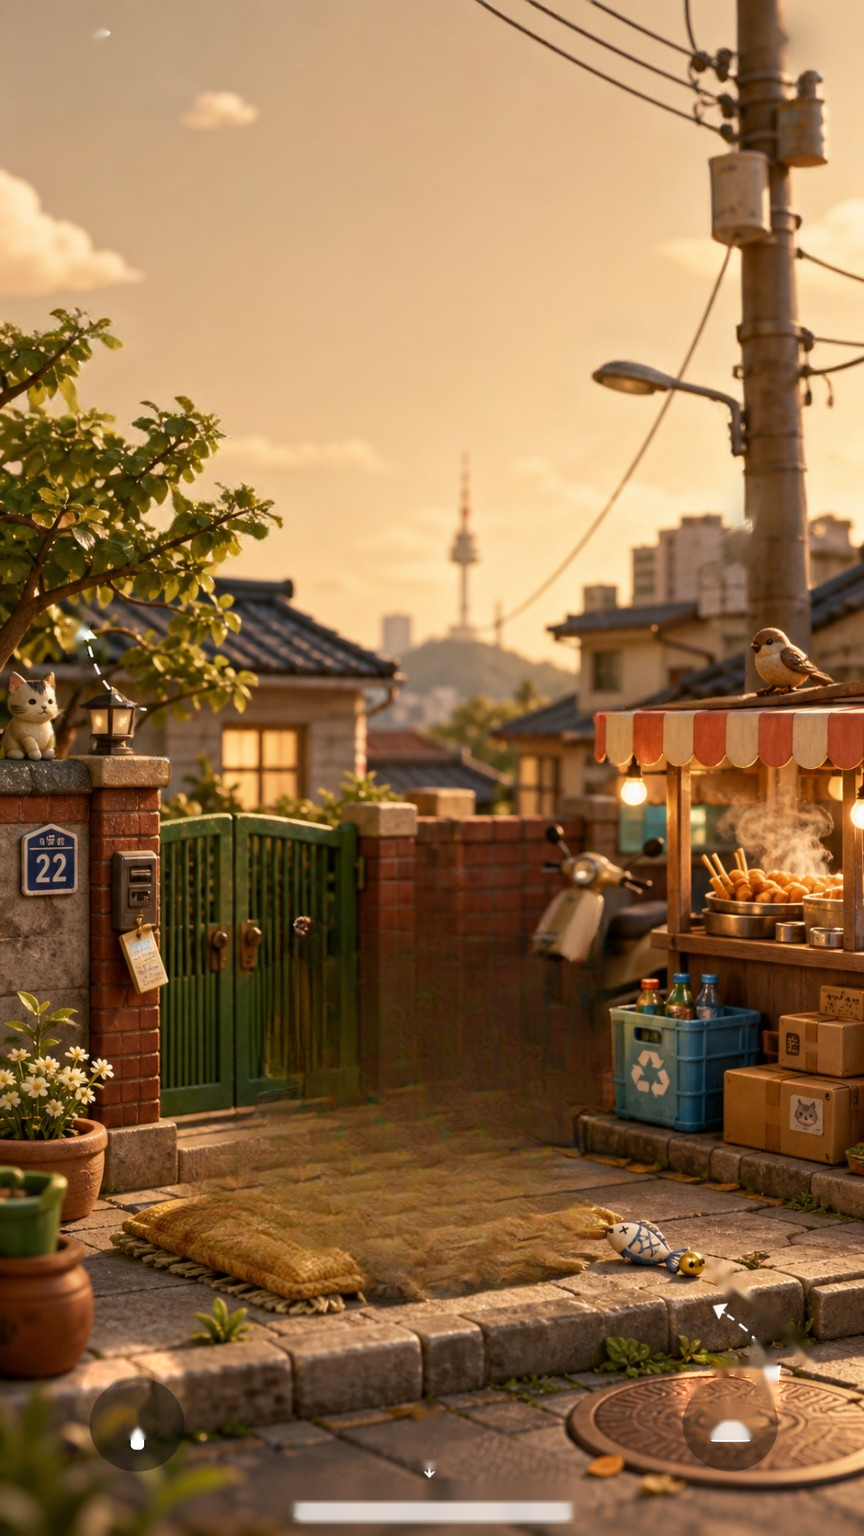
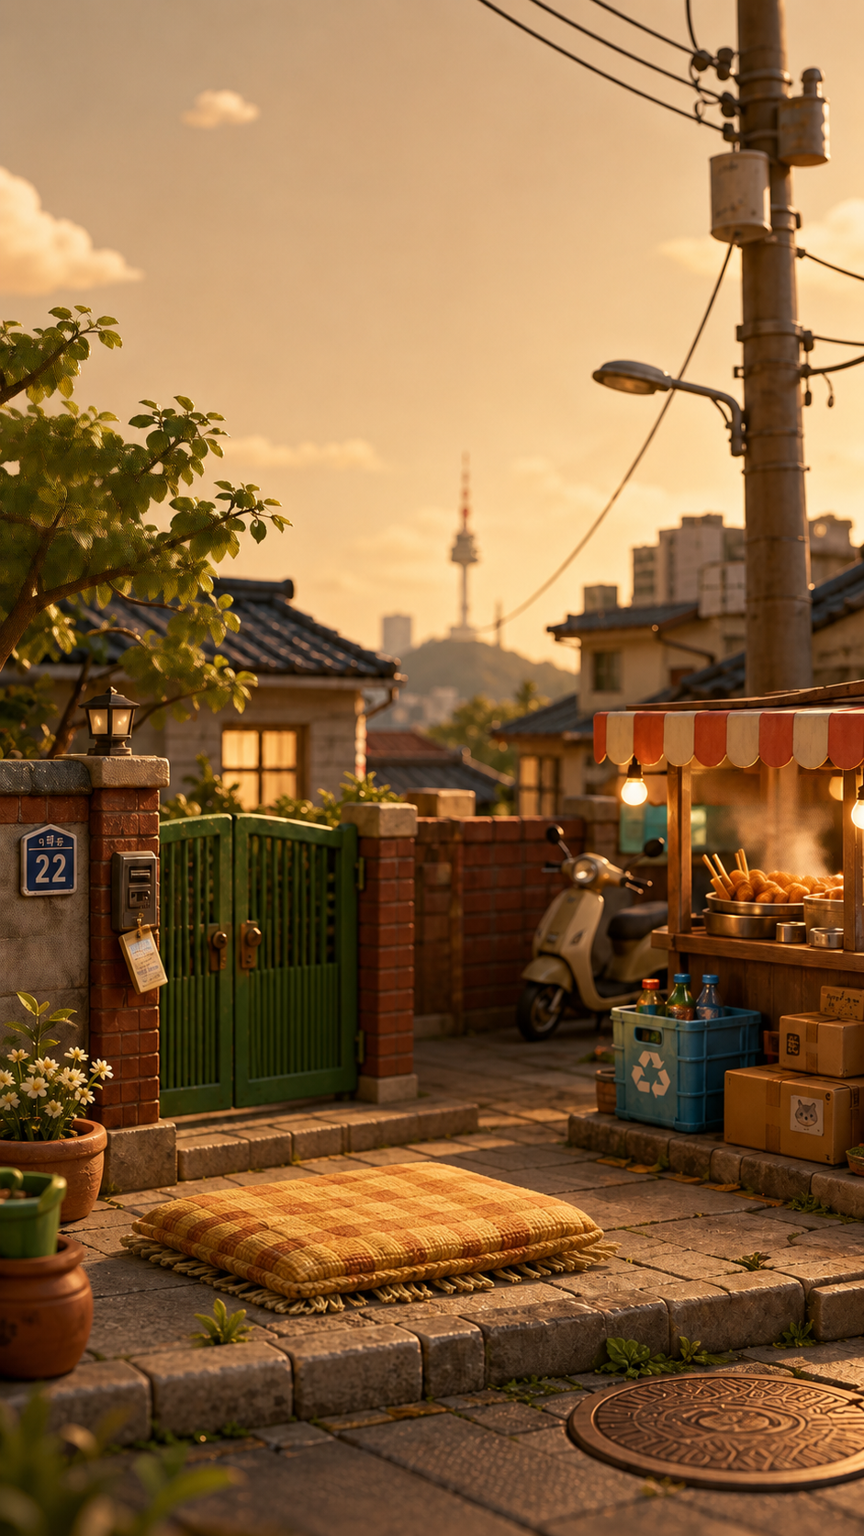
lab1: use the clean cat-free plate (assets/base.png) as the back layer
Replace LaMa's messy behind-the-cat inpaint with the real cat-free render
(assets/base.png) as bg_color. The disocclusion behind the moving cat now shows the
clean empty cushion/ground instead of a smear. Well aligned to the plate (~5% diff
in the non-cat region).

diff --git a/index.html b/index.html
@@ -11,7 +11,7 @@
     <meta name="apple-mobile-web-app-title" content="Cat Lock" />
     <meta name="apple-mobile-web-app-status-bar-style" content="black-translucent" />
     <link rel="manifest" href="./manifest.webmanifest" />
-    <link rel="stylesheet" href="./style.css?v=mesh-33" />
+    <link rel="stylesheet" href="./style.css?v=mesh-34" />
     <title>Cat Depth Lock</title>
     <script type="importmap">
       {
@@ -55,6 +55,6 @@
     </main>
 
     <script src="https://unpkg.com/lucide@0.468.0/dist/umd/lucide.min.js" defer></script>
-    <script type="module" src="./app.js?v=mesh-33"></script>
+    <script type="module" src="./app.js?v=mesh-34"></script>
   </body>
 </html>

diff --git a/app.js b/app.js
@@ -19,7 +19,7 @@ const sceneParam = new URLSearchParams(location.search).get("scene");
 const P3D = sceneParam ? `./assets/photo3d_${sceneParam}/` : "./assets/photo3d/";
 // asset cache-buster: bump on any rebuilt PNG so phones don't serve a stale image
 // (index.html's ?v= only refreshes the code, not these depth/colour PNGs).
-const AV = "?a=large2";
+const AV = "?a=base1";
 // core layers always present; protect.png (v2) / subject.png (v3 soft-LDI) are
 // loaded optionally and decide which front-layer path runs (see below).
 const ASSETS = {
